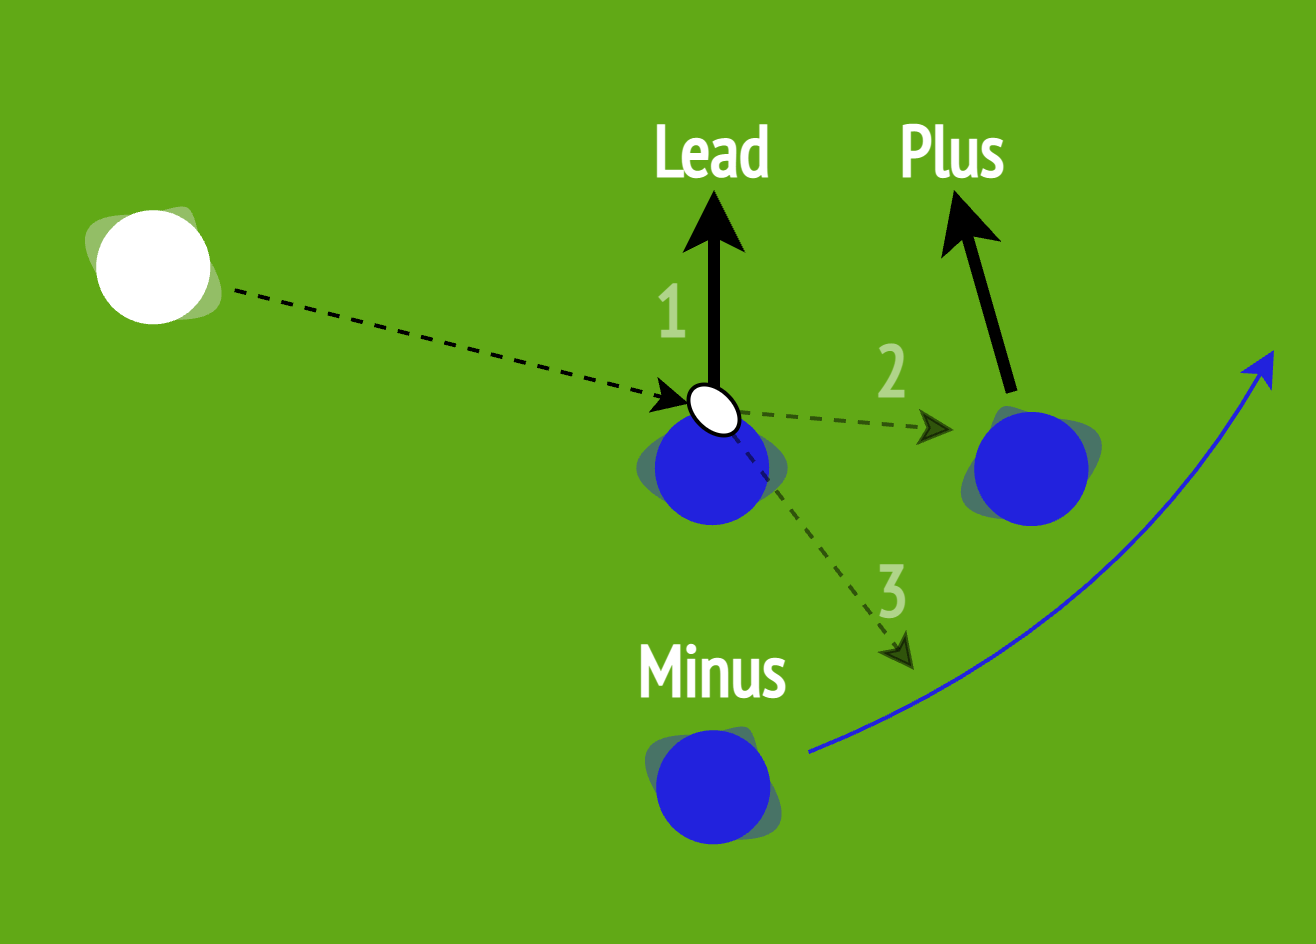
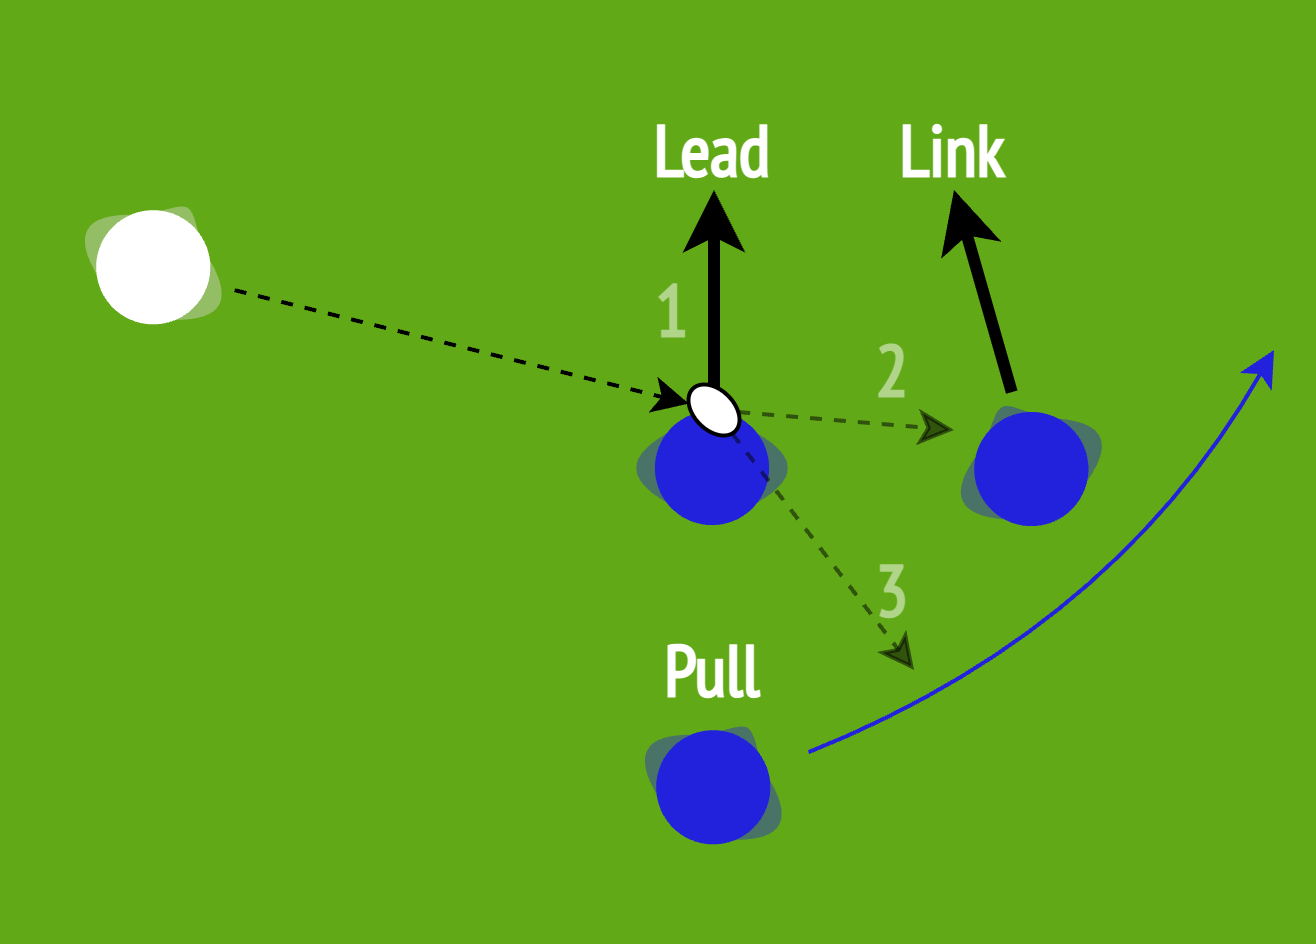
Plays

Changed region(s): [[0.4673, 0.6758, 0.5919, 0.7373], [0.6854, 0.1229, 0.7789, 0.215]]

diff --git a/pages/set-piece/lineout/attack.md b/pages/set-piece/lineout/attack.md
@@ -90,13 +90,53 @@ Click one of the below calls to show a diagram.
 
 ## Plays
 
-- Hot
-  - No more information necessary in lineout (see Backs Moves)
-- Cold
-  - Standard drive
-  - "Transfer" - shift drive
-  - TBC ("Flyby"?) - peel
-
 <img src="{{ '/assets/images/lineout/plays.png' | relative_url }}" style="width: 100%; height: auto;"/>
+
+The final part of the lineout is how we play the ball once it has been secured. Broadly, this is split into two categories: 
+
+1. **Hot** (give the ball to the backs)
+2. **Cold** (keep the ball in the forwards - set up a maul)
+  - **Transfer** - pass the ball down to another forward in the lineout to shift the initial point of contact for the maul
+  - **Flyby** - bring the ball to ground for a maul before the forward receiver peels off to carry
+
+
+### Hot
+
+If the backs ask for a **Hot** ball, the jumper passes directly to the scrum half, who can play the ball as determined by the backs (e.g. a [Backs Move](../attack/backs.md) or [King or Queen](../attack/forwards.md#king---pod-off-9) off a short lineout).
+
+<img src="{{ '/assets/images/lineout/hot.png' | relative_url }}" style="width: 100%; height: auto;"/>
+
+### Cold
+
+If the backs ask for a **Cold** ball, the standard option is for the jumper to be brought down to ground, and the forwards to set up a maul on that spot.
+
+<img src="{{ '/assets/images/lineout/cold.png' | relative_url }}" style="width: 100%; height: auto;"/>
+
+{: .note .fs-4 .lh-tight}
+> The forward at the back of the maul acts effectively as a number 8 in a scrum (see [Plays off scrum](../set-piece/scrum.md#plays-off-scrum-or-maul)) so the scrum half may call a move.
+> 
+> **These moves are not part of the lineout call**
+
+
+The jumper can also pass the ball down to another forward in the lineout to shift the initial point of contact for the maul (**Transfer**). This is useful if the defence is expecting a maul to be set up in a particular place, or if the jumper is being closely marked, allowing us to initiate the drive in a weaker defensive position.
+
+<details>
+<summary><b>7-man</b> (Squeeze) <b>1 Transfer</b></summary>
+<img src="{{ '/assets/images/lineout/transfer.png' | relative_url }}" style="width: 100%; max-width:500px; height: auto;"/>
+</details>
+
+
+### Flyby
+
+With the same setup as a **Cold** ball, the jumper can bring the ball to ground, but for another forward to peel off and carry (see [Plays off scrum](../set-piece/scrum.md#plays-off-scrum-or-maul)).
+
+<img src="{{ '/assets/images/lineout/flyby.png' | relative_url }}" style="width: 100%; height: auto;"/>
+
+For simplicity, the ball carrier should expect to pass to the 9 (i.e. [♣ **Clubs**](../scrum.md#-clubs) or [♦ **Diamonds**](../scrum.md#-diamonds)), but other forwards in the lineout should follow the play and be ready to support the ball carrier.
+
+{: .note .fs-4 .lh-tight}
+> **Flyby** is a forward-led play, but requires the backs to be expecting it so they can be ready to run their lines off the ball carrier peeling off, so it's not strictly a **Hot** or **Cold** play.
+>
+> **Only run it when the backs have asked for it (or been told to expect it)**
 
 ---

diff --git a/pages/attack/forwards.md b/pages/attack/forwards.md
@@ -20,8 +20,8 @@ nav_order: 11
 Each forward pod consists of 3 players in an L shape:
 
 - **"Lead"** looks to take the ball off 9 or 10 and carry
-- **"Plus"** is close on his outside to support the carry or take a flat tip pass
-- **"Minus"** sits behind "Lead" tracking across to support either ball carrier or to take a pull back pass
+- **"Link"** is close on his outside to support the carry or take a flat tip pass
+- **"Pull"** sits behind "Lead" tracking across to support either ball carrier or to take a pull back pass
 
 As last season, these 3 options can be quickly communicated as **"1"** (carry), **"2"** (tip) and **"3"** (release)
 
@@ -34,7 +34,7 @@ As last season, these 3 options can be quickly communicated as **"1"** (carry), 
     <img src="{{ '/assets/images/attack/2pod.png' | relative_url }}" style="width: 100%; height: auto;"/>
 </div>
 
-In the 3-3-2 structure, one pod only has two forwards, so a back needs to fill the **"Minus"** role, supporting the forward ball carriers, or being released down the wing.
+In the 3-3-2 structure, one pod only has two forwards, so a back needs to fill the **"Pull"** role, supporting the forward ball carriers, or being released down the wing.
 
 <br style="clear: both;" />
 
@@ -48,19 +48,25 @@ A back can still step into that role and call **"Take off"** for the ball to be 
 
 <br style="clear: both;" />
 
-## **King** - pod off 9
+## Pod plays
+
+Pods can be placed in different areas of the field relative to the previous ruck as below:
+
+<img src="{{ '/assets/images/attack/podplays.png' | relative_url }}" style="width: 100%; max-width:500px; height: auto;"/>
+
+### **King** - pod off 9
 
 **Lead** takes the ball at pace off 9, aiming outside the C defender.
 
 <img src="{{ '/assets/images/attack/king.png' | relative_url }}" style="width: 80%; height: auto;"/>
 
-## **Queen** - pod off 10
+### **Queen** - pod off 10
 
 Identical shape as a **King** but set deeper and wider, receiving the ball from 10 and looking to find a gap in the defence, choosing from one of the above options.
 
 <img src="{{ '/assets/images/attack/queen.png' | relative_url }}" style="width: 80%; height: auto;"/>
 
-## **Punga** - pick and go
+### **Joker** - pick and go
 
 - 3 players in the ruck, 3 on their feet (2-pod available elsewhere)
 - Ball carrier picks up with 2 teammates ready to support
@@ -69,7 +75,7 @@ Identical shape as a **King** but set deeper and wider, receiving the ball from 
 
 <img src="{{ '/assets/images/attack/punga.png' | relative_url }}" style="width: 80%; height: auto;"/>
 
-## **Rhino** - short punch off 9
+### **Ace** - short punch off 9
 
 - 3 players in the ruck, 3 on their feet (2-pod available elsewhere)
 - 9 pops the ball to the **Lead** runner

diff --git a/pages/set-piece/scrum.md b/pages/set-piece/scrum.md
@@ -31,6 +31,37 @@ Typically, the ball will be played through the backs, with 8 and 7 expected to f
     <img src="{{ '/assets/images/scrum/scrum-backs-midfield.gif' | relative_url }}" style="width: 100%; max-width:500px; height: auto; margin-left:20px;"/>
 </details>
 
-## Back row moves
+## Plays off scrum (or maul)
 
-TBC - Same moves, new names. And used off mauls as well as scrums.
+The ball is usually played away from a scrum or maul by the scrum half, where the backs can run a pre-planned [backs move](../attack/backs.md).
+
+The alternative is for the 8 to pick up the ball at the back of the scrum (or the player at the back of a maul) and carry it forward, drawing in defenders around the scrum (or maul) before passing to the backs.
+
+We have 3 pre-called moves in this situation, which can be called before the scrum (or once a maul has stopped): ♠ **Spades**, ♣ **Clubs** , and ♦ **Diamonds**
+
+### ♠ Spades
+
+Ball carrier has 2 passing options:
+
+- 12 on a short line, looking to break the gain line
+- 11 round the back of 12, spreading the ball wide to 13 and creating an overlap
+
+<img src="{{ '/assets/images/scrum/spades.png' | relative_url }}" style="width:100%; max-width: 400px; height: auto;"/>
+
+### ♣ Clubs
+
+Much like **Spades** but through the 9 first, looking for more width:
+- 11, 12 and 13 running the same lines
+- 10 offers a second out-the-back option behind 13
+
+<img src="{{ '/assets/images/scrum/clubs.png' | relative_url }}" style="width:100%; max-width: 450px; height: auto;"/>
+
+### ♦ Diamonds
+
+Prioritising width, aiming for the edge by passing the ball behind more direct-running centres:
+- The forward runner _can_ take contact, or pass to 12 on a short line, but the primary option is...
+- 9 taking the ball wide behind 12 
+- 10 taking the ball wide behind 13 (a back-up option)
+- 14 taking the ball to the edge behind 15 (a back-up option)
+
+<img src="{{ '/assets/images/scrum/diamonds.png' | relative_url }}" style="width:100%; max-width: 500px; height: auto;"/>

diff --git a/pages/set-piece/restarts.md b/pages/set-piece/restarts.md
@@ -8,18 +8,11 @@ nav_order: 33
 
 # Restarts
 
-## 1-4-1-3 formation
-
-Forwards cover one side of the pitch while backs are spread across the other as shown, with the scrum half in a position to either follow a forward carry, or spread the ball wide.
-
-If the kick goes deep, the forwards carry short for 2 or 3 phases towards the 15m line and get into position for a box kick and chase.
+We no longer split the pitch with forwards on one side, mirroring the opposition who we expect to do the same. Instead, we set up symmetrically with forwards and backs on both sides of the pitch.
 
 <img src="{{ '/assets/images/restart.png' | relative_url }}" style="width:100%; max-width: 600px; height: auto;"/>
 
-If the ball is caught cleanly outside the 22m, the scrum half is waiting behind to feed the backs running into space on the opposite side of the pitch.
-
-With all the forwards on one side of the pitch, the backs are expected to clear the first ruck
-
-The example below demonstrates how the forwards can set the [3-3-2](../attack/index.md#3-3-2-structure) pattern for the following phases.
-
-<img src="{{ '/assets/images/kick-off-9-backs.gif' | relative_url }}" style="width:100%; max-width: 600px; height: auto;"/>
+This gives us clear options and individual roles, wherever the ball is kicked:
+- **Carry** - Between the 10m and 22m lines, left and right sides of the pitch are each covered by a prop, a second row and a flanker, ready to carry and support each other. The hooker covers the middle, directly in front of the kicker.
+- **Run** - Deeper kicks into the 22m leave more space to run the ball back, so this area is covered by the wings and centres, with the Number 8 in the middle.
+- **Kick** - Deep into our 22m, 10 and 15 are ready to kick to exit, with the scrum half in the middle to pass the ball to either of them.

diff --git a/pages/attack/summary.md b/pages/attack/summary.md
@@ -21,16 +21,17 @@ A summary of the key words and phrases used in attacking play.
 
 | :-------- | :---------- |
 |  **Lead** (1) | The expected ball carrier at the front of the pod, closest to the 9/10 |
-|  **Plus** (2) | The outside tip option |
-|  **Minus** (3) | The "out the back" option |
+|  **Link** (2) | The outside tip option |
+|  **Pull** (3) | The "out the back" option |
 |  **Release** | Pass from the forwards to a supporting back |
 |  **Take off** | Pass behind the pod to a supporting back |
 
 | :-------- | :---------- |
+|  **Joker** | A pick and go (x3) |
+|  **Ace** | A short punch off 9 (a very narrow King pod) | 
 |  **King** | A pod running off 9 |
 |  **Queen** | A pod running off 10 |
-|  **Punga** | A pick and go (x3) |
-|  **Rhino** | A short punch off 9 (a very narrow King pod) | 
+
 
 ### [Backs moves](backs.md)
 
@@ -42,8 +43,8 @@ A summary of the key words and phrases used in attacking play.
 ### Open play
 
 | :-------- | :---------- |
-|  **Ace** | Box kick from 9 |
-|  **Jack** | Clearance kick from 10 |
+|  <span style="color: red">**Ace** (CHANGE)</span> | Box kick from 9 |
+|  <span style="color: red">**Jack** (CHANGE)</span>  | Clearance kick from 10 |
 |  **Ireland** | Cross-field kick |
 |  **Flash** | Get ball directly to the 10 (space out wide) |
 |  **Tango** | Change direction of play |

diff --git a/pages/set-piece/lineout/summary.md b/pages/set-piece/lineout/summary.md
@@ -45,6 +45,15 @@ Options once the lineout is formed.
 |  **"Set"** | Execute the pre-planned call |
 |  **"Cancel..."** | Wait for a new call to be given |
 
+### [Plays off lineout](attack.md#plays)
+
+How we call different options off the lineout.
+
+| :-------- | :---------- |
+|  **Hot** | Give the ball to the backs |
+|  **Cold** | Keep the ball in the forwards (direct maul) |
+|  **Transfer** | Shift drive - jumper passes the ball down to another forward in the line to shift the initial point of contact for the maul |
+|  **Flyby** | Bring the ball to ground for a maul before the receiver peels off to carry in the open |
 
 ### [Defence](defence.md)
 

diff --git a/pages/attack/index.md b/pages/attack/index.md
@@ -16,9 +16,7 @@ nav_order: 10
 
 ## Attacking zones
 
-<div style="float: left; width: 300px; margin-right: 40px;">
-    <img src="{{ '/assets/images/attack/attackingzones.png' | relative_url }}" style="width: 100%; height: auto;"/>
-</div>
+<img src="{{ '/assets/images/attack/attackingzones.png' | relative_url }}" style="width: 100%; max-width:400px; height: auto;"/>
 
 **PATIENCE**
 - 60% opportunity conversion
